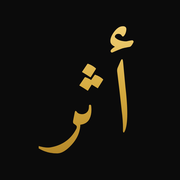
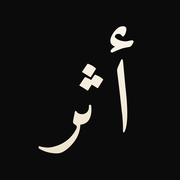
أيقونة التطبيق: «أثر» بالأبيض الكريمي على أسود (بدل الذهبي)
Claude-Session: https://claude.ai/code/session_01XcUMJFnzGYY2JY2GqwHN3p

diff --git a/sw.js b/sw.js
@@ -1,7 +1,7 @@
 /* أثر — service worker. Caches the app shell as-is (content is embedded in index.html, so offline = the exact bytes last fetched online).
    Navigations to the app (/ or index.html): network first; other pages (surah/ adhkar/ dua/ for search engines) come from the network and are never stored as the app.
    Navigations: network first (fresh content when online), cached copy when offline. Static files: cache first. Cache name changes whenever any file changes. */
-const VERSION='fc18504bd202',CACHE='athar-'+VERSION,SHELL=["./", "manifest.webmanifest", "pwa.js", "fonts.css", "fonts/hafs.18.woff2", "fonts/amiri-quran-arabic-400-normal.woff2", "fonts/amiri-quran-latin-400-normal.woff2", "fonts/amiri-arabic-400-normal.woff2", "fonts/amiri-arabic-700-normal.woff2", "fonts/amiri-latin-400-normal.woff2", "fonts/amiri-latin-700-normal.woff2", "fonts/ibm-plex-sans-arabic-arabic-400-normal.woff2", "fonts/ibm-plex-sans-arabic-arabic-500-normal.woff2", "fonts/ibm-plex-sans-arabic-arabic-600-normal.woff2", "fonts/ibm-plex-sans-arabic-latin-400-normal.woff2", "fonts/ibm-plex-sans-arabic-latin-500-normal.woff2", "fonts/ibm-plex-sans-arabic-latin-600-normal.woff2", "icons/favicon-a1.svg", "icons/icon-192-a1.png", "icons/icon-512-a1.png", "icons/maskable-512-a1.png", "icons/apple-touch-icon-a1.png"];
+const VERSION='3234ae40a8a3',CACHE='athar-'+VERSION,SHELL=["./", "manifest.webmanifest", "pwa.js", "fonts.css", "fonts/hafs.18.woff2", "fonts/amiri-quran-arabic-400-normal.woff2", "fonts/amiri-quran-latin-400-normal.woff2", "fonts/amiri-arabic-400-normal.woff2", "fonts/amiri-arabic-700-normal.woff2", "fonts/amiri-latin-400-normal.woff2", "fonts/amiri-latin-700-normal.woff2", "fonts/ibm-plex-sans-arabic-arabic-400-normal.woff2", "fonts/ibm-plex-sans-arabic-arabic-500-normal.woff2", "fonts/ibm-plex-sans-arabic-arabic-600-normal.woff2", "fonts/ibm-plex-sans-arabic-latin-400-normal.woff2", "fonts/ibm-plex-sans-arabic-latin-500-normal.woff2", "fonts/ibm-plex-sans-arabic-latin-600-normal.woff2", "icons/favicon-a1.svg", "icons/icon-192-a1.png", "icons/icon-512-a1.png", "icons/maskable-512-a1.png", "icons/apple-touch-icon-a1.png"];
 /* The app page is cached under the site root (./), never under index.html: Cloudflare answers /index.html with a redirect to /,
    and Safari refuses to open a page from a cached redirected response ("Response served by service worker has redirections") — the app then failed offline. */
 const APP=new URL('./',self.registration.scope).href;
